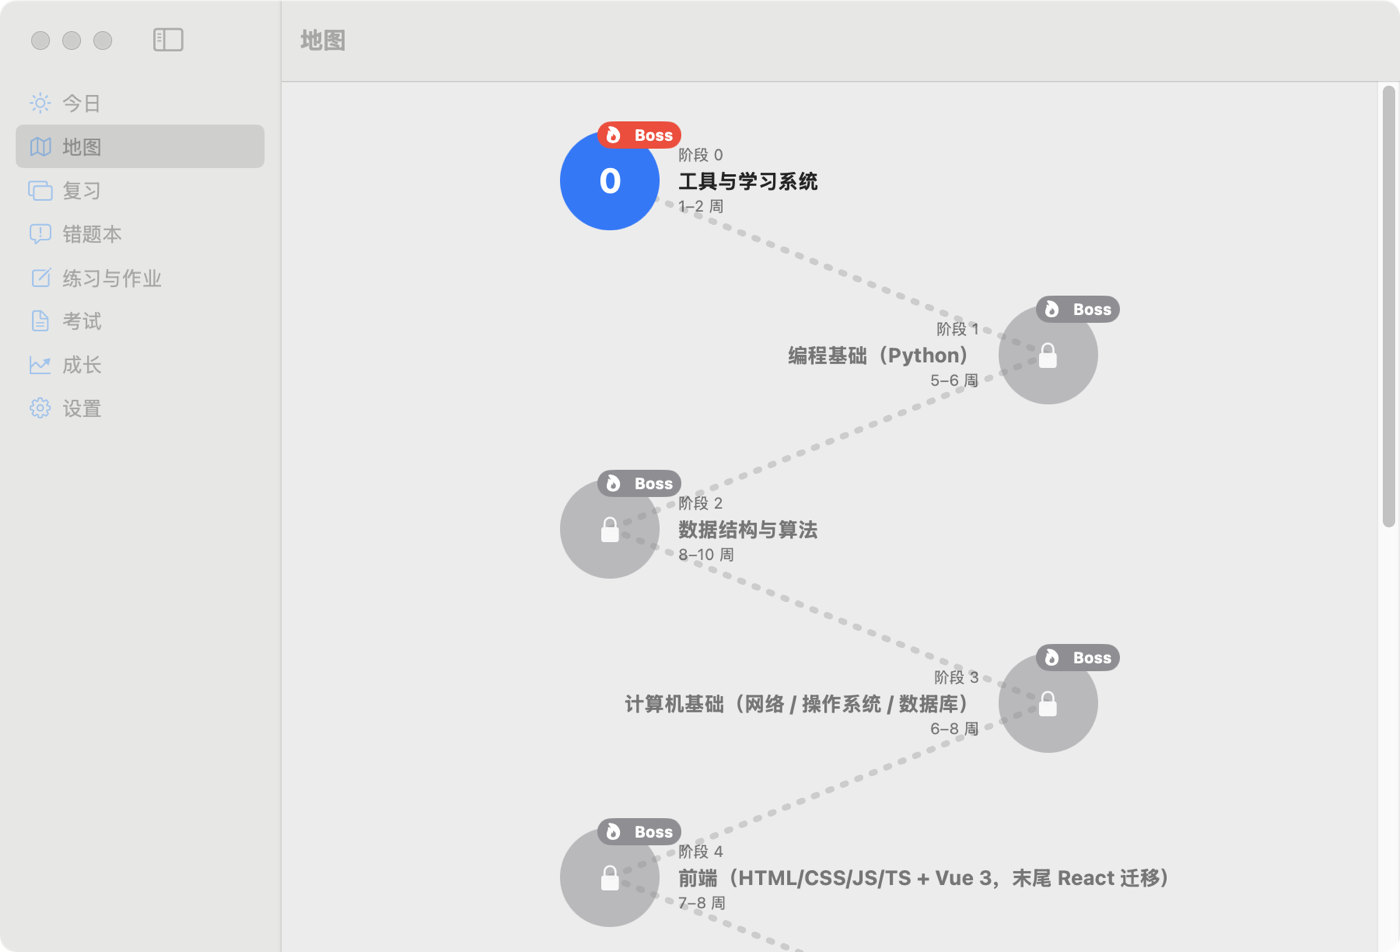
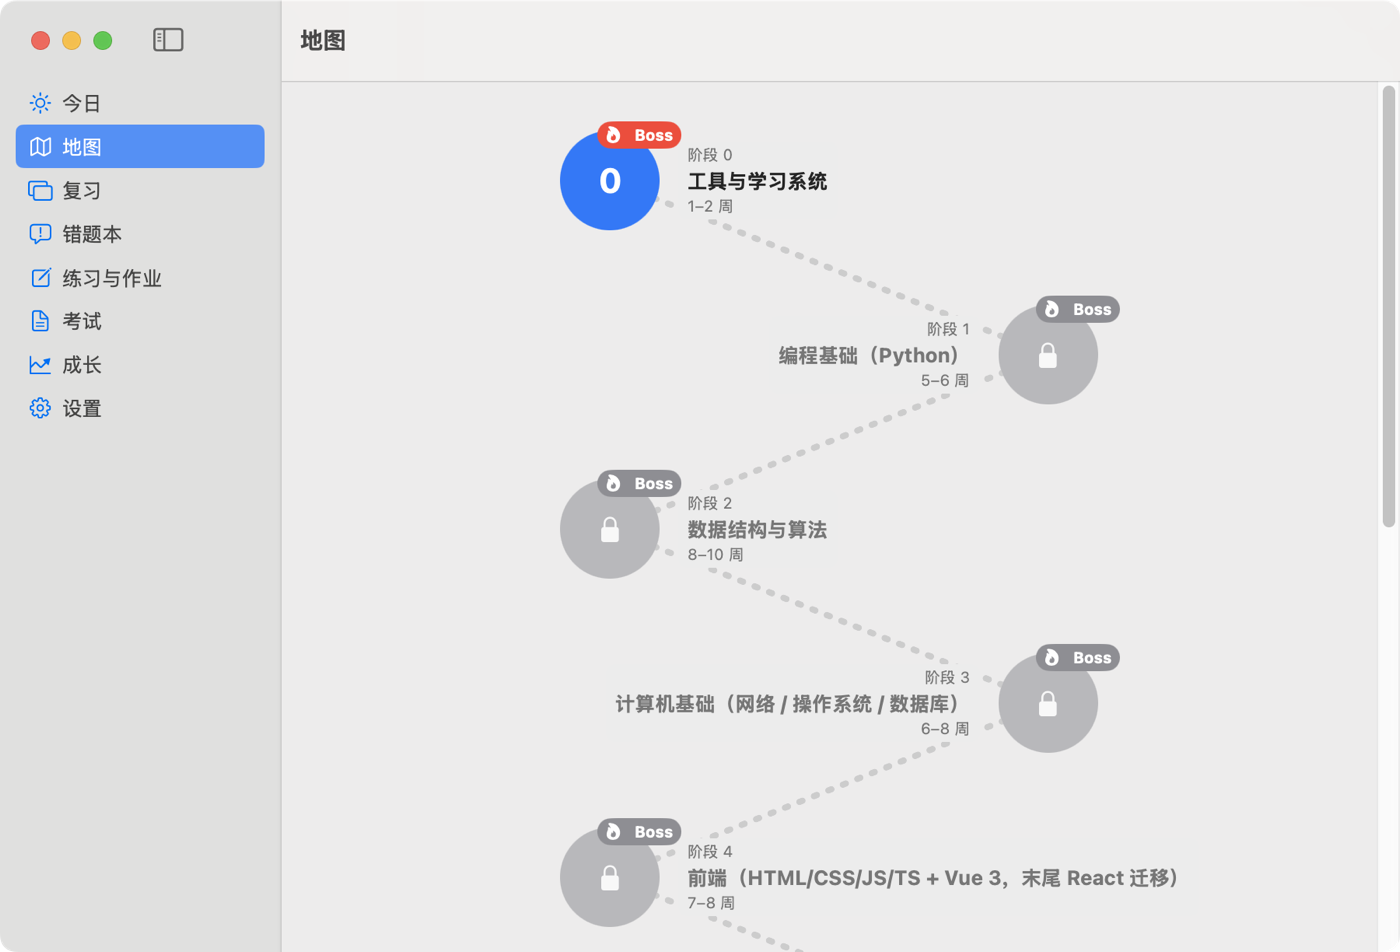
fix(app): 地图连线不再压在阶段文字和未解锁圆点上 (#3)

diff --git a/Sources/StudyQuest/Views/MapView.swift b/Sources/StudyQuest/Views/MapView.swift
@@ -66,6 +66,10 @@ struct MapView: View {
             Text(stage.title).font(.headline).foregroundStyle(stage.status == .locked ? .secondary : .primary)
             Text(stage.estimatedWeeks).font(.caption).foregroundStyle(.secondary)
         }
+        // 连线画在节点下面；给文字垫一层与页面同色的底，让虚线从文字后面穿过而不是压在字上
+        .padding(.horizontal, 6)
+        .padding(.vertical, 2)
+        .background(Color(nsColor: .windowBackgroundColor), in: RoundedRectangle(cornerRadius: 6))
         return NavigationLink(value: stage.index) {
             HStack(spacing: 12) {
                 if onLeft {
@@ -88,6 +92,8 @@ struct MapView: View {
 
     private func circle(_ stage: Stage) -> some View {
         ZStack {
+            // 未解锁的填充是半透明的，先垫一层不透明底，免得连线从圆里透出来
+            Circle().fill(Color(nsColor: .windowBackgroundColor)).frame(width: nodeSize, height: nodeSize)
             Circle().fill(fill(stage.status)).frame(width: nodeSize, height: nodeSize)
             switch stage.status {
             case .locked: Image(systemName: "lock.fill").font(.title2).foregroundStyle(.white.opacity(0.9))
